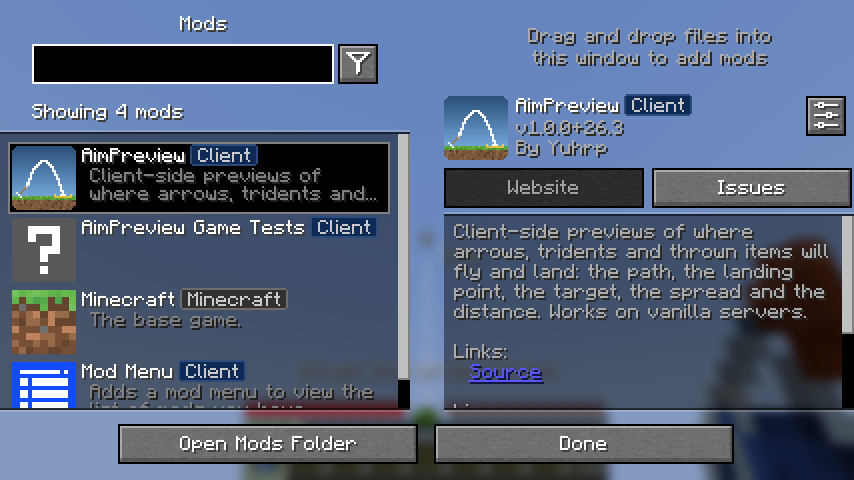
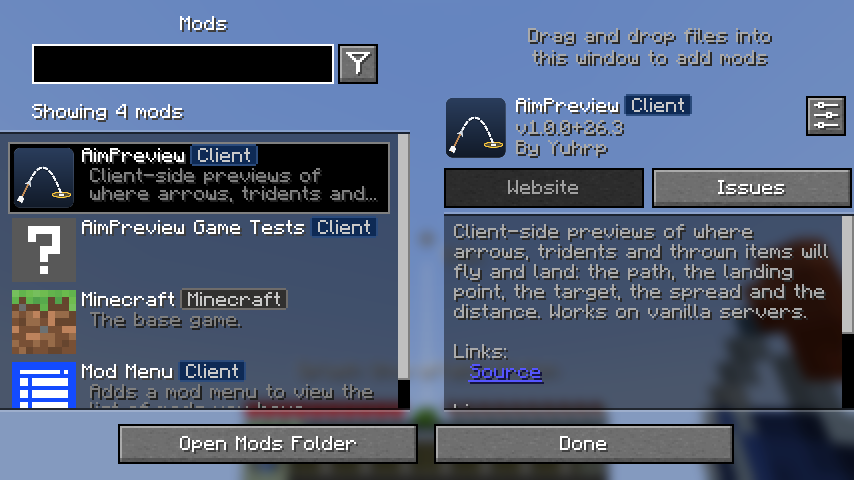
AimPreview 1.0.1

Changed region(s): [[0.5176, 0.1875, 0.6089, 0.3438], [0.0, 0.2812, 0.0913, 0.4375]]

diff --git a/README.md b/README.md
@@ -30,6 +30,8 @@ Just install it on your client; it also works on vanilla servers (nothing needs 
 - **Line styles**: a solid line, a dashed line or a row of small cubes, in any color and width. The path can also be drawn through walls.
   While you walk, the line in front of you stays steady with the crosshair even with View Bobbing on.
 
+  ![Walking with a snowball: on the left the line sways with View Bobbing, on the right (the default) it stays under the crosshair](docs/images/walking-compare.gif)
+
 ## Settings
 
 Everything above can be turned on or off and adjusted in the settings screen, opened from [Mod Menu](https://modrinth.com/mod/modmenu).

diff --git a/README.ja.md b/README.ja.md
@@ -30,6 +30,8 @@
 - **線の種類**：実線・点線・小さな立方体の列から選べ、色と太さも変えられます。壁の向こうまで透かして表示することもできます。
   「画面の揺れ」が ON でも、歩いている間、手前の線は照準と一緒に止まって見えます。
 
+  ![雪玉を持って歩く場面。左は画面の揺れで線が揺れ、右（初期値）は線が照準の下に止まっている](docs/images/walking-compare.gif)
+
 ## 設定
 
 上の機能はすべて、[Mod Menu](https://modrinth.com/mod/modmenu) から開く設定画面で ON/OFF・調整できます。
